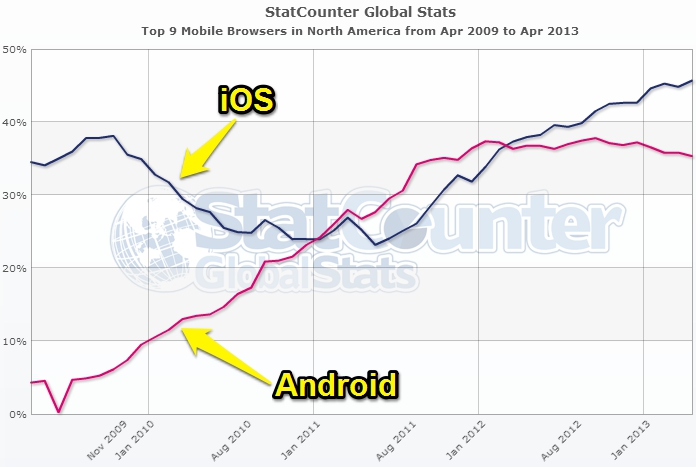
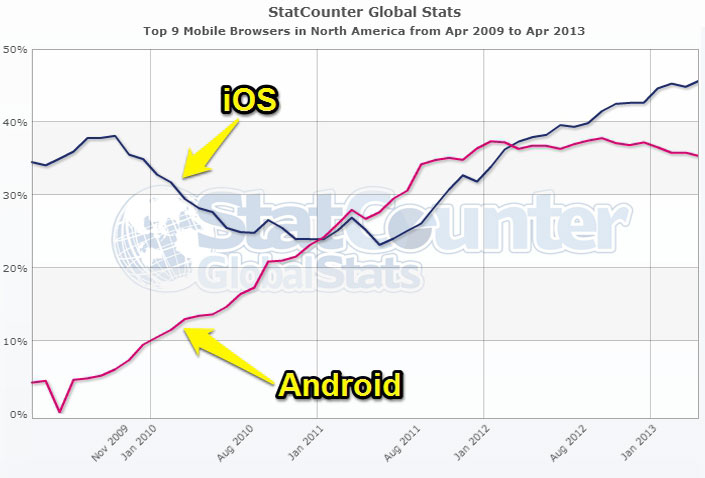
stop being a perfectionist! its just a couple of pixels

diff --git a/index.html b/index.html
@@ -396,7 +396,7 @@
 			</section>
 			<section data-transition="fade">
 				<h2>1. IE 6 is Dead</h2>
-				<img src="img/ie6stats.png" style="height: 480px;">
+				<img src="img/ie6stats.jpg" style="height: 480px;">
 				<p>IE 6 = 0.15%</p>
 				<small>Source: <a href="http://gs.statcounter.com/#browser-na-monthly-200904-201304">StatCounter</a></small>
 				<aside class="notes">IE6 is essentially zero</aside>
@@ -404,7 +404,7 @@
 			<section data-transition="fade">
 				<h2>IE 7 Isn't Far Behind</h2>
 				<div>
-					<img src="img/ie7stats.png" style="height: 480px;">
+					<img src="img/ie7stats.jpg" style="height: 480px;">
 				</div>
 				<p>IE 7 = 0.74%</p>
 				<small>Source: <a href="http://gs.statcounter.com/#browser-na-monthly-200904-201304">StatCounter</a></small>
@@ -413,7 +413,7 @@
 			<section data-transition="fade">
 				<h2>Look Close, You'll See Something</h2>
 				<div>
-					<img src="img/iestats.png" style="height: 480px;">
+					<img src="img/iestats.jpg" style="height: 480px;">
 				</div>
 				<p>IE Usage 2009-2013</p>
 				<small>Source: <a href="http://gs.statcounter.com/#browser-na-monthly-200904-201304">StatCounter</a></small>
